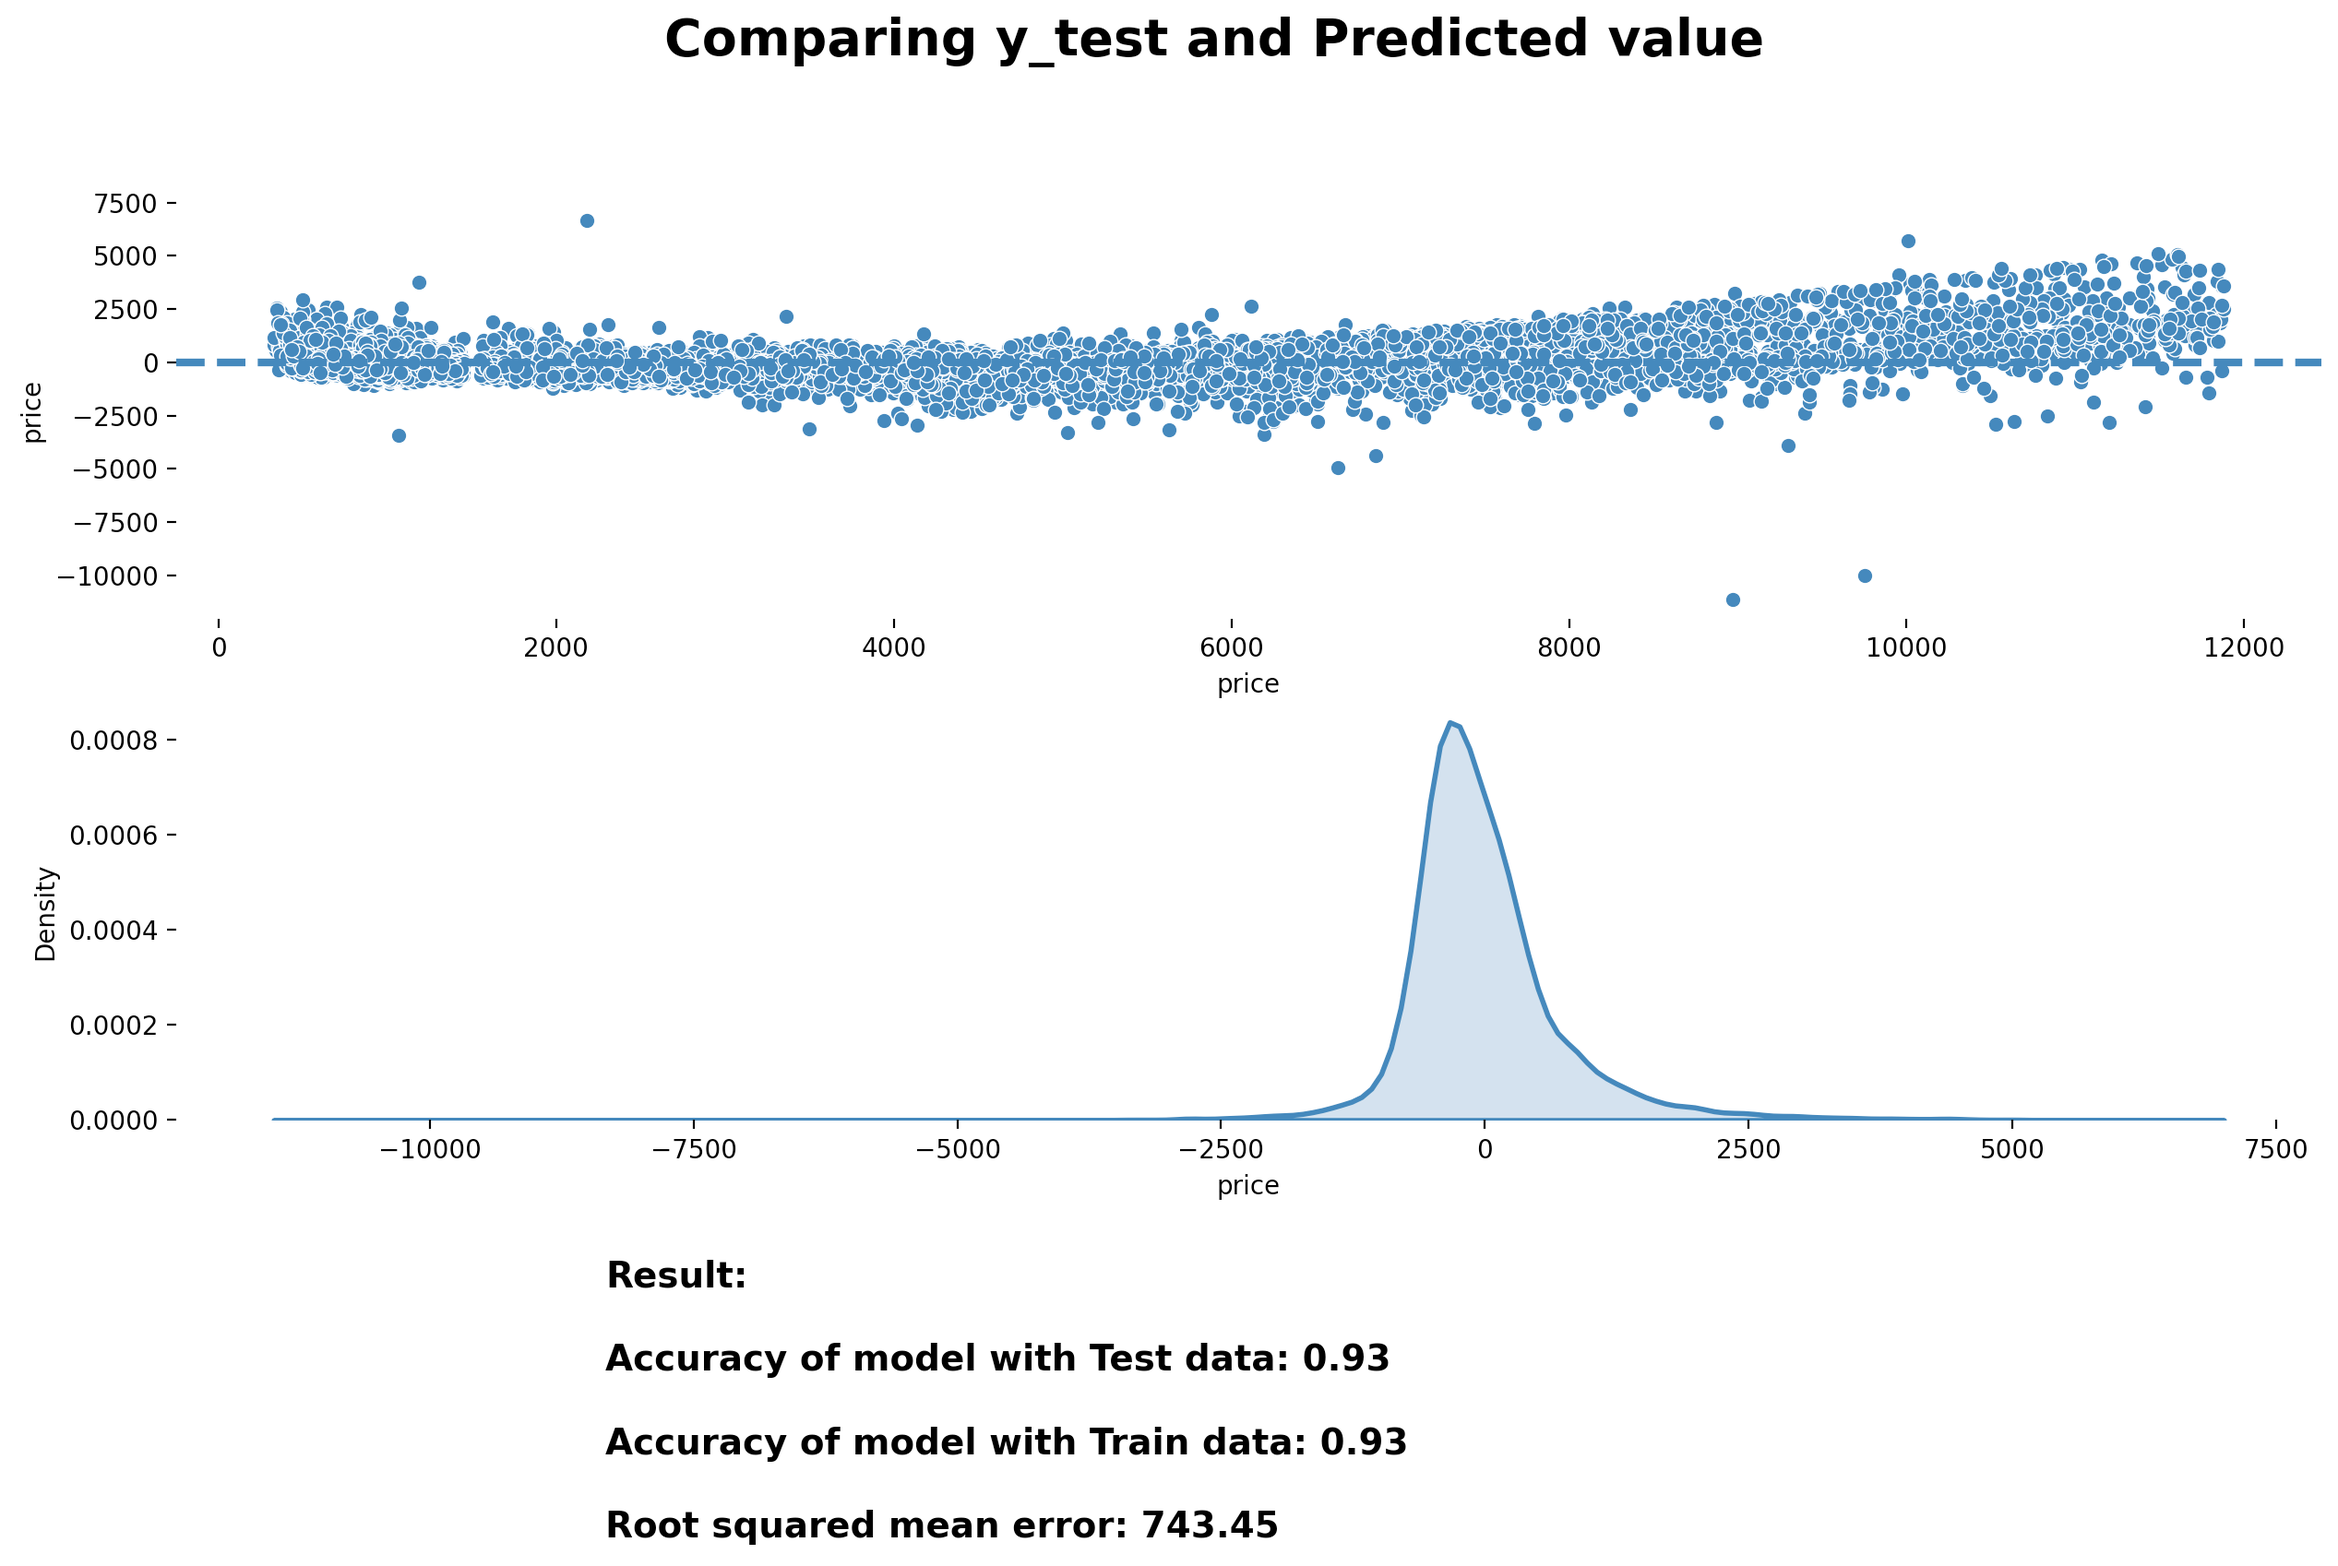
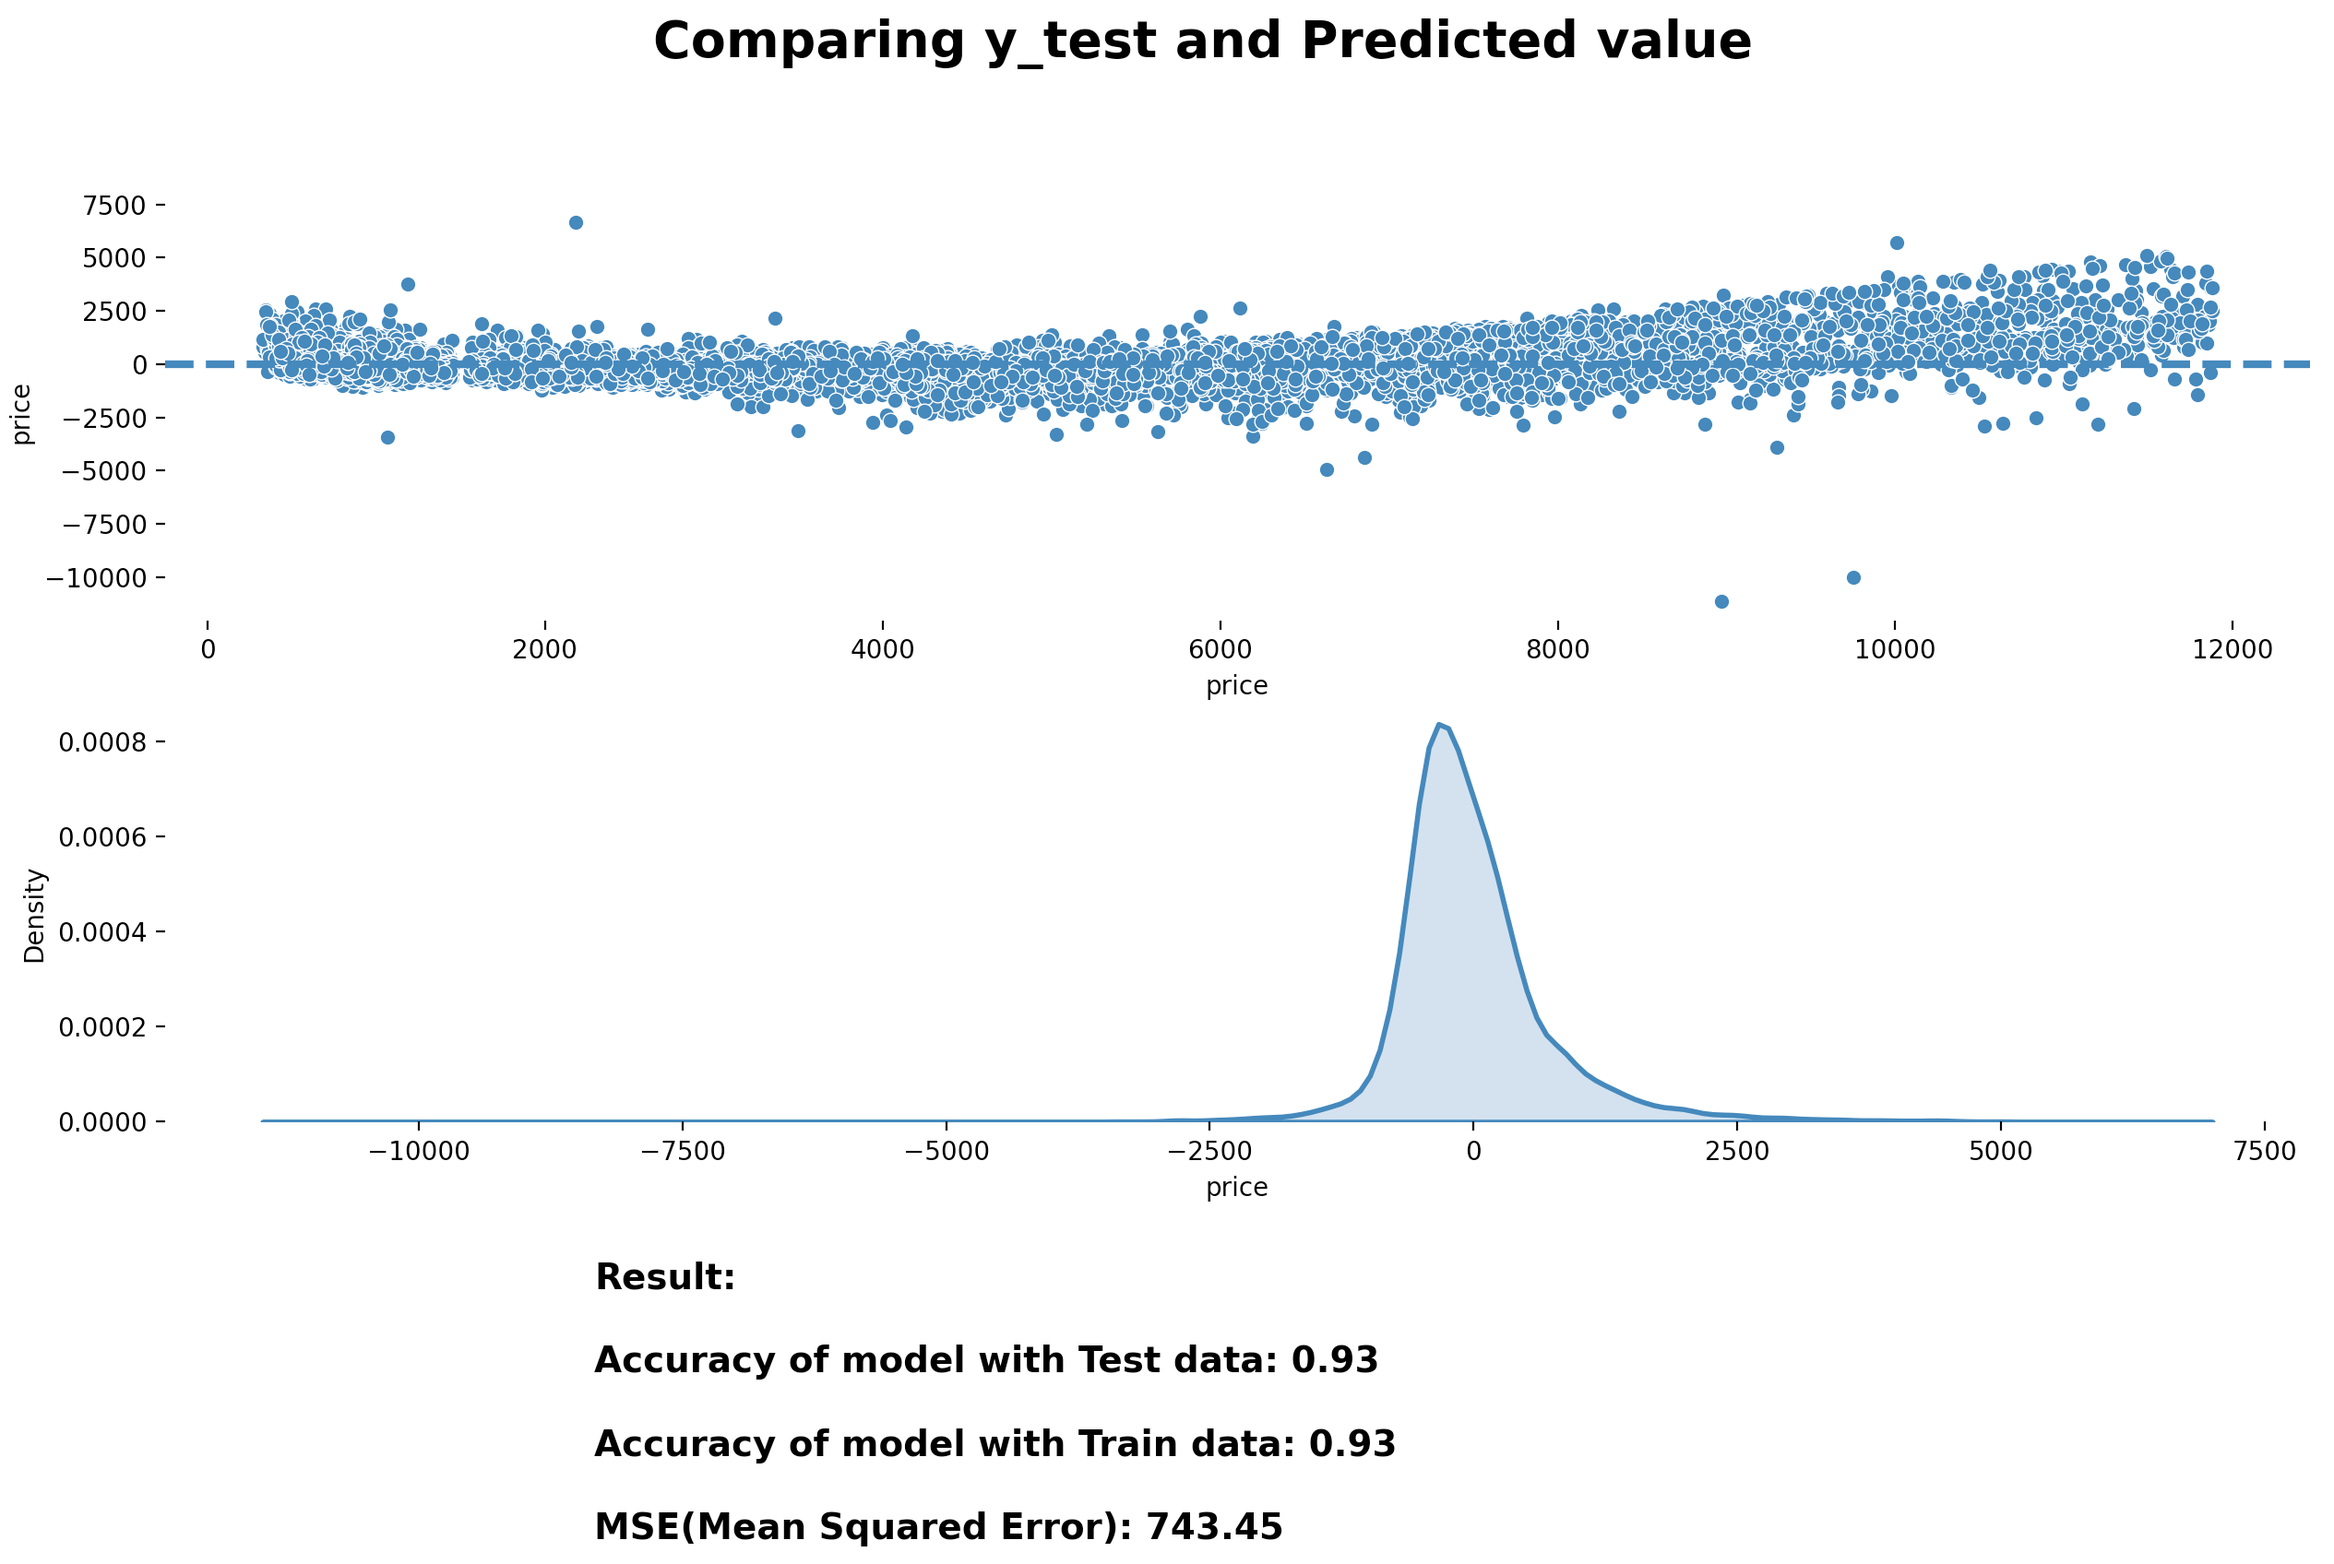
Update Diamond.md

diff --git a/_posts/2021-12-03-Diamond.md b/_posts/2021-12-03-Diamond.md
@@ -212,7 +212,7 @@ sns.scatterplot(y_test, residual, ax=ax['A'])
 ax['A'].axhline(y=0, ls='--', linewidth=3)
 sns.kdeplot(residual, ax=ax['B'], fill=True, linewidth=2)
 
-ax['C'].text(x=0.2, y=0.2, s="Root squared mean error: {}".format(np.round(mean_squared_error(y_test, prediction, squared=False),2)), ha='left', weight='bold', size=14)
+ax['C'].text(x=0.2, y=0.2, s="MSE(Mean Squared Error): {}".format(np.round(mean_squared_error(y_test, prediction, squared=False),2)), ha='left', weight='bold', size=14)
 ax['C'].text(x=0.2, y=0.4, s="Accuracy of model with Train data: {}".format(np.round(model.score(X_train, y_train),2)), ha='left', weight='bold', size=14)
 ax['C'].text(x=0.2, y=0.6, s="Accuracy of model with Test data: {}".format(np.round(model.score(X_test, y_test),2)), ha='left', weight='bold', size=14)
 ax['C'].text(x=0.2, y=0.8, s="Result:", ha='left', weight='bold', size=14)
@@ -226,6 +226,8 @@ plt.show()
 ```
 
 <img src="../assets/images/result10.png" width="100%">
+
+Test Data에 대한 모델의 정확도는 0.93, Train Data에 대한 모델의 정확도는 0.93이 나왔으며 MSE(Mean Squared Error)은 743.45가 나왔다.
 
 
 ## 5. Conclusion
